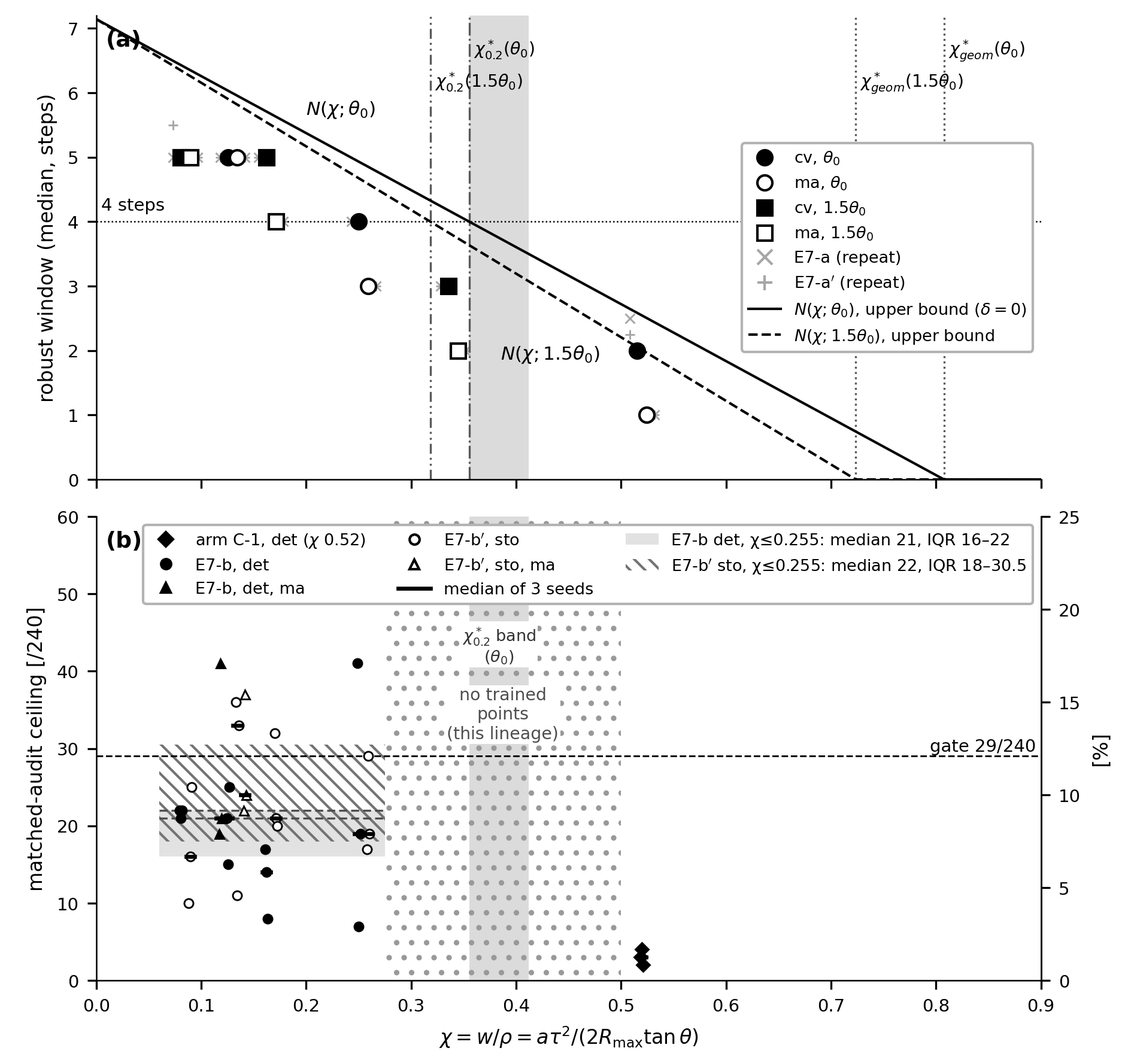
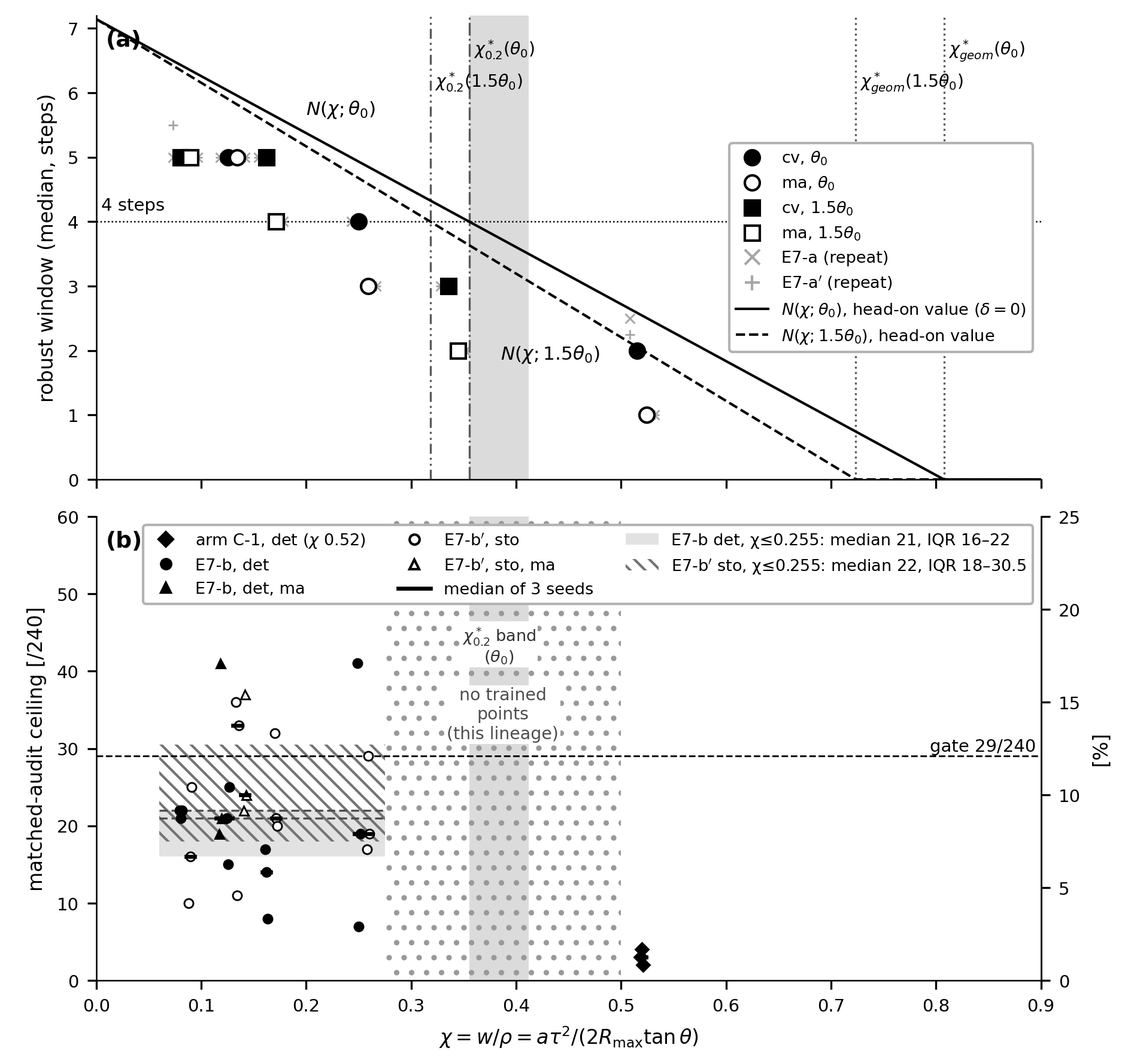
docs(paper1): spine v6 window definition and three-layer claim scope (existence bound strategy-independent / practical window head-on worst-case / measured window implementation-conditional), correction: head-on formula is not an upper bound; ledger W6-W13 acquisition and T&E sources (Korean defense

Changed region(s): [[0.6247, 0.1242, 0.8745, 0.3416]]

diff --git a/scripts/paper1_figs.py b/scripts/paper1_figs.py
@@ -181,8 +181,8 @@ def fig2():
           plt.Line2D([], [], ls="", marker="s", mfc="white", mec="k", label=r"ma, $1.5\theta_0$"),
           plt.Line2D([], [], ls="", marker="x", color="0.65", label="E7-a (repeat)"),
           plt.Line2D([], [], ls="", marker="+", color="0.65", label="E7-a$'$ (repeat)"),
-          plt.Line2D([], [], ls="-", color="k", label=r"$N(\chi;\theta_0)$, upper bound ($\delta=0$)"),
-          plt.Line2D([], [], ls="--", color="k", label=r"$N(\chi;1.5\theta_0)$, upper bound")]
+          plt.Line2D([], [], ls="-", color="k", label=r"$N(\chi;\theta_0)$, head-on value ($\delta=0$)"),
+          plt.Line2D([], [], ls="--", color="k", label=r"$N(\chi;1.5\theta_0)$, head-on value")]
     aa.legend(handles=h_, loc="center right", fontsize=6.5, frameon=True,
               framealpha=1, edgecolor="0.7", ncol=1)
     aa.text(0.01, 0.97, "(a)", transform=aa.transAxes, fontsize=9, fontweight="bold", va="top")

diff --git a/docs/136_paper1_v0_spine.md b/docs/136_paper1_v0_spine.md
@@ -51,6 +51,20 @@ net 요격기는 이미 조달되고 있다 (현황)
 → 조건 미달 사양에서는 학습 방어 다섯 가지가 모두 실패했고, 평가 방법을 잘못 고르면 성능이 3 배 안팎 부풀려진다 (분석 2)
 → 요구 성능 · 시험평가 · 실측 세 제언 (제언).
 
+### 0.6 "창" 의 정의와 세 층 — "구현이 못한 것 아니냐" 에 대한 방어선 (§3-3, §4 에 그대로)
+
+**정의 (상태의 성질)**: 발사 순간의 상태 (공격자 위치 p·속도 v, 발사기 위치 L, net 축) 에서, 공격자가 τ 동안 허용 가속 a 안의 **어떤 기동을 하더라도** τ 뒤 위치가 net 원뿔 (반각 θ, 사거리 R_max) 안에 있으면 그 순간은 **보장 포획 순간**. 공격자의 τ 뒤 도달 가능 집합은 정확히 구 B(p + vτ, w) (점질량·등방 가속에서 정확). **보장 포획 창** = 교전 중 보장 포획 순간이 이어지는 시간 구간.
+
+| 층 | 주장 | 무엇에 대해 성립하나 | "구현 탓" 비판 | 가정 |
+|---|---|---|---|---|
+| 1 존재 경계 | χ > χ*_geom 이면 보장 포획 순간이 **없다** | **모든 발사기 위치 · 모든 조준 방향 · 모든 발사 시점** (원뿔에 넣을 수 있는 가장 큰 구의 반지름 = R·sinθ/(1+sinθ)) | 성립 안 함 (유도·조준·배치와 무관) | net 단독 (경로 제한 기체의 차단 없음), 이상적 회피자 (즉시 반응·전 방향), 원뿔은 발사 순간 고정, τ 뒤 판정 |
+| 2 실용 창 | 창 길이 T = (R_max/V)(1 − χ/χ*_geom) | 축이 조준점 p + vτ 를 향하면 보장 여부는 **발사기–조준점 거리 하나** 로 정해짐 (구간 [w/sinθ, R_max − w]) → 창 = 이 거리 껍질을 지나는 시간. **정면 등속 접근이 가장 짧다** → χ*_0.2 는 **가장 불리한 접근 기하 기준** 의 요구조건 | 정면 기하에서는 성립 안 함. 측면 통과는 창을 늘리지만 시선 각속도 V/b 만큼 축 회전이 필요 | 발사 전 공격자 등속, V = 상대 접근 속도 (발사기가 물러나면 줄어듦), T_min (0.2 s) 은 **요구 파라미터** (획득 측이 정할 값) |
+| 3 측정 창 | 시뮬레이션에서 기록한 창 | 이 구현: cv 조준 (p + vτ, **참 상태 — 센서 잡음·지연 없음**), net 축 회전율 2 rad/s (가정값), 판정 = 표본 2000 + 4구간 극점 기동 (유한 표본, 보수적), 장전·16 m·첫 발사 전만 기록, **발사기 위치는 그 방어 정책이 고른 것** | **성립할 수 있음** → 이 층 숫자는 층 1·2 의 검증용으로만, 성능 한계 주장에 쓰지 않음 | — |
+
+- 학습 방어 결과 (5-2) 는 층 3 위의 사실이다: χ 0.52 < 0.808 이므로 창은 **존재** 하고 (층 1), 정면 기준 약 0.13초로 짧다 (층 2). "시험한 다섯 방식이 이 짧은 창을 포획으로 바꾸지 못했다" 까지만 — "불가능" 아님.
+- **새로 세운 주장 (직접 유도 확인 필요)**: 층 2 의 "보장 여부 = 거리 하나" 와 "정면이 최소" (측면 오프셋 b 일 때 단일 통과 시간 = [√(D_max² − b²) − √(D_min² − b²)]/V, b 에 대해 증가).
+- **정정 (v5 이전 표현)**: "창 길이 식은 상한", "예측은 관측의 상한", 그림 legend "upper bound" → **"정면 접근 기준값"**. 측면 기하에서는 식보다 긴 창이 가능하다. 프로브에서 관측 ≤ 예측이었던 것은 정면 위주 접근 · 보수적 판정 · 축 회전율 · 발사 전 기동과 정합하지만 보장된 성질은 아니다.
+
 ### 0.5 첫 페이지 테스트
 
 1. "net 요격기의 요구 성능은 전개 시간과 대상 위협을 함께 명시해야 한다. 같은 net 이 일반 촬영용 드론에는 넉넉하지만, 이상적으로 회피하는 레이싱급 기체에는 보장 포획 순간이 없다."
@@ -95,7 +109,7 @@ net 요격기는 이미 조달되고 있다 (현황)
 
 | 단락 | 내용 | 근거 | 주의 |
 |---|---|---|---|
-| 1-1 현황 | 전파 교란으로 막기 어려운 위협 (광섬유 유선 FPV) / 요격 드론 비중 증가 / 미 국방부 첫 Replicator 2 구매 = net 포획 요격기 2대 / **국내 맥락** | 장부 W1, W2, W3 + **국내 출처 (조사 중, 장부 W6+)** | 전부 "보도·발표에 따르면". "완전 면역", "전국 70%" 금지 |
+| 1-1 현황 | 전파 교란으로 막기 어려운 위협 (광섬유 유선 FPV) / 요격 드론 비중 증가 / 미 국방부 첫 Replicator 2 구매 = net 포획 요격기 2대 / **국내**: 2022. 12. 북한 무인기 침범·격추 0 → 드론작전사령부 창설 (2023. 9., 2026. 1. 폐지 권고로 검토 중) / 방사청 요격드론 신속시범사업 (2025. 9., 직충돌 방식) | 장부 W1, W2, W3, W12, W13 | 전부 "보도·발표에 따르면". 드작사는 현재 상태까지. 국내 요격드론은 net 이 아님을 명시 |
 | 1-2 문제 | net 은 펼쳐지는 동안 표적이 도망칠 수 있다. 요구 성능을 사거리·반각으로만 적으면 이 회피가 빠진다. AI 기반 방어는 무엇을 상대로 시험하느냐에 따라 성능 숫자가 달라진다. → **"무엇을 요구하고 어떻게 시험할지" 의 정량 기준이 없다** | — | "병목은 기술이 아니라 의사결정" 틀은 여기서 한 문장 |
 | 1-3 질문 | ① 요구 성능에 무엇을 어떤 조합으로 명시해야 하나 ② AI 기반 방어의 성능을 어떻게 재야 숫자를 믿을 수 있나 | — | — |
 | 1-4 기여 | 해석·시뮬레이션 기반의 세 제언. 선행 발표 (KSAS) 의 해석 경계를 계승하고, 그때 남긴 속력 문제를 풀어 요구 성능 기준으로 확장 | [KSAS] | "최초" 금지. **"실측 기반" 금지** — 근거는 해석·시뮬레이션 + 공개 자료 대조 |
@@ -108,7 +122,7 @@ net 요격기는 이미 조달되고 있다 (현황)
 |---|---|---|---|
 | 2-1 net 요격 방식과 실물 자료 | 드론 매단 net (Pliska 외 2024, Rothe 외 2019) / 발사형 net: 실험상 유효 포획 거리 3–8 m (UAV Hunter), 제조사 주장 발사 거리 5–10 m (W4), 개방 시간 0.13 s (Xu 외 2025, KSAS 의 τ 근거), 전개 해석은 유한요소 시뮬레이션 (Han 외 2026 — 실험이 더 느렸다고 저자 보고), 실측 개방률 40–80% (Yu 외 2022). **전개 시간을 독립 실측한 공개 자료는 찾지 못함 → 제언 ③ 의 근거** | 6편 + W4 | Han 의 0.228초를 "실측" 이라 하지 않음 |
 | 2-2 선행 연구의 포획 기준 | 학습 기반 포획 연구는 거리·각도 영역 + 유지 시간 (Huh 외 2026: 3–10 m, ±5°, 0.5초 — 0.5초는 출처 없이 가정). 선행 발표 [KSAS] 는 전개 지연 중 회피를 χ 로 정리하고 원뿔 기하 상계 (31.8 m/s²) 를 구했으며, 규칙 기반 폐루프에서 **같은 가속이라도 속력이 높을수록 포획률이 낮아져** 속력을 반영하는 추가 조건이 필요하다고 남겼다 | Huh 외 2026, [KSAS] | "틀렸다" 톤 금지. KSAS 숫자 (0.878 → 0.636) 는 인용으로만 |
-| 2-3 국내 획득·시험평가 절차 | 소요 제기 → 작전요구성능 → 개발·운용 시험평가 의 흐름, 대드론 관련 국내 사업·조직 (있으면). AI 무기체계 시험평가 지침 (국외: 미 국방부 자율 무기 지침 등) | **조사 중 (장부 W6+)** | 확인된 출처만. 조문 번호는 원문 확인 후 |
+| 2-3 획득·시험평가 제도 | **연결고리 한 문장**: 운용시험평가는 작전운용성능 충족 여부를 확인하는 시험이다 (방위사업법 제21조) → 작전운용성능에 무엇을 적느냐가 시험 대상을 정한다. 작전운용성능 정량화 미흡·개발시험평가 신뢰 문제 지적 (엄동환 2019). 시범사업은 성능입증시험으로 시험평가를 대체할 수 있다 (제21조⑤). 국외: 미 국방부 자율 무기 지침은 "적응하는 적대자" 를 상대로 한 기능 확인을 요구 (W8), AI 체계 운용시험은 적대적 공격 하 평가·독립 시험 데이터 (W9), 대드론 시연은 위협 등급별 평가로 요구성능에 반영 (W11). **국내 국방 AI 시험평가·레드팀 공개 지침은 찾지 못함** | 장부 W6–W11 | **법 조문은 law.go.kr 원문 대조 후** (11/12 개정 시행 확인). 훈령 조문 번호 인용 금지 (개정 가능). DARPA SABER (W10) 는 AI 보안 레드팀 — 쓰면 "유사 방향" |
 
 ---
 
@@ -129,10 +143,10 @@ net 요격기는 이미 조달되고 있다 (현황)
 | 단락 | 내용 | 식·숫자 | 주의 |
 |---|---|---|---|
 | 4-1 창 존재 (선행 결과) | **[KSAS] 인용, 반 단락**: χ ≤ χ*_geom = cosθ/(1+sinθ) 일 때만 보장 포획 순간이 존재. 보장 포획 조준 거리 구간 [w/sinθ, R_max − w] | 0.808 / 4.37–7.30 m / τ 0.30 s 에서 a 31.8 m/s² | 명제 번호 붙이지 않음. "불가능" 은 χ > 경계 에서만, 모델 안에서 |
-| 4-2 실용 창 (새 결과) | 정면 직선 접근 시 창 길이 T = (R_max/V)·(1 − χ/χ*_geom) — **χ 에 대한 직선**. 0.2초 이상 필요 → χ ≤ χ*_0.2 = χ*_geom·(1 − 0.2·V/R_max). **두 조건 동시 필요**: 0.2·V < R_max, 그리고 χ ≤ χ*_0.2. KSAS 의 속력 의존 관찰과 같은 방향 (속력이 크면 창이 짧다). 등록 시점·경위 공개 (학습 실험 전, 단 시뮬레이션 지도를 본 뒤) | T 상한 0.36초, χ*_0.2 = 0.355 (0.175초: 0.412). τ 0.30 s·V 23 m/s 에서 0.2초 창은 **a ≤ 14.0 m/s²** 위협에만. 속도 한계 41 m/s | "몰래 맞힌 예측" 금지. KSAS 폐루프와의 정량 대조는 하지 않음 (모델이 다름) |
+| 4-2 실용 창 (새 결과) | 정면 직선 접근 시 창 길이 T = (R_max/V)·(1 − χ/χ*_geom) — **χ 에 대한 직선**. 0.2초 이상 필요 → χ ≤ χ*_0.2 = χ*_geom·(1 − 0.2·V/R_max). **두 조건 동시 필요**: 0.2·V < R_max, 그리고 χ ≤ χ*_0.2. KSAS 의 속력 의존 관찰과 같은 방향 (속력이 크면 창이 짧다). 등록 시점·경위 공개 (학습 실험 전, 단 시뮬레이션 지도를 본 뒤) | 정면 기준 T (χ → 0 극한 0.36초), χ*_0.2 = 0.355 (0.175초: 0.412). τ 0.30 s·V 23 m/s 에서 0.2초 창은 **a ≤ 14.0 m/s²** 위협에만. 속도 한계 41 m/s | "몰래 맞힌 예측" 금지. KSAS 폐루프와의 정량 대조는 하지 않음 (모델이 다름) |
 | 4-3 지연과 오차 (해석만) | ① 회피자 반응 지연 τ_r → χ × [(τ − τ_r)/τ]² (0.15초면 1/4) ② 방어 추적 지연 L → χ × [(τ + L)/τ]² ③ 조준 오차 δ → 창 존재 경계 χ*_geom(δ) = 1 / [tanθ·(1 + 1/sin(θ − δ))]. δ ≥ θ 면 창 없음. **좁은 콘 net 일수록 조준 오차에 민감** | ③ δ 0.05 rad → 0.808 에서 0.645 (정확한 값). ② 는 **새로 세운 식 — 직접 유도해 확인한 뒤에만** | 실측 없음 → 제언 ③ |
 | 4-4 위협 등급별 판정 | 같은 net (τ 0.30 s) 에서 χ = a × 0.0254: Mavic급 (a 6.9) 0.175 / Phantom급 (8.8) 0.224 / 표준 쿼드 (17.4) 0.442 / 레이싱 쿼드 (≈ 39) 0.99 → 창 없음 (이상적 회피자 가정). 필요한 전개 시간 ∝ 1/√(위협 가속). **정책 읽기**: 요구 성능은 "대상 위협 등급" 을 명시해야 의미가 있다 | 위협 가속은 사양 틸트각·추력비에서 도출. **전투용 FPV (탄두 탑재) 가속은 공개 자료 없음** | 그림 2 는 반각 12.15°·사거리 8.22 m 전용 — 캡션에. **실물 net 의 χ 는 올리지 않음** |
-| 4-5 시뮬레이션 대조 | 쏘지 않는 교전 기록 위에서 net 사양만 바꿔 판정을 다시 계산 (공격자 = 규칙 방어용으로 학습된 비공진화 공격자, 낙관 편향). χ 가 작을수록 창이 커짐, 등록 경계는 등록 전에 본 자료의 열림/닫힘과 12 개 중 11 개 일치, 예측은 관측의 상한. 전개 시간·위협 가속·반각을 바꿔도 같은 χ 면 창이 거의 같음 (한 문장) | 동점 보정 순위상관 0.93 (반복 측정 0.94) / 사양 변형 12개 | 그림 3 = 머니 커브 **(a) 패널만**. collapse 는 한 문장, 그림 없음 (AIAA) |
+| 4-5 시뮬레이션 대조 | 쏘지 않는 교전 기록 위에서 net 사양만 바꿔 판정을 다시 계산 (공격자 = 규칙 방어용으로 학습된 비공진화 공격자, 낙관 편향). χ 가 작을수록 창이 커짐, 등록 경계는 등록 전에 본 자료의 열림/닫힘과 12 개 중 11 개 일치, 관측은 정면 기준 예측 이하 (보장된 성질 아님, §0.6). **측정 창의 구현 조건 (층 3) 을 이 단락에 명시**. 전개 시간·위협 가속·반각을 바꿔도 같은 χ 면 창이 거의 같음 (한 문장) | 동점 보정 순위상관 0.93 (반복 측정 0.94) / 사양 변형 12개 | 그림 3 = 머니 커브 **(a) 패널만**. collapse 는 한 문장, 그림 없음 (AIAA) |
 
 - **AI 사용 명시**: 4-1·4-2 의 유도는 AI 보조 세션이 먼저 만들었다 → 직접 다시 유도해 확인한 뒤 쓴다.
 
@@ -164,7 +178,8 @@ net 요격기는 이미 조달되고 있다 (현황)
 | 단락 | 내용 | 주의 |
 |---|---|---|
 | 6-1 제언 ① | 표 3 첫 줄 + 위협 등급 예 (4-4). "가속 14 m/s² 이하 위협에만 실용 창" 같은 기준점 하나 | 특정 제품의 χ·적합 판정 금지 |
-| 6-2 제언 ② | 레드팀 원칙. 비용 측면 한 문장 (레드팀 학습이 방어 학습보다 짧음 — 1천만 vs 1.1억 step) | 국내 시험평가 절차의 어느 단계에 해당하는지는 §2-3 조사 결과로 |
+| 6-2 제언 ② | 레드팀 원칙 = 미 국방부 지침의 "적응하는 적대자" 요구 (W8) 를 학습 기반 방어에 구체화한 것. 운용시험평가 단계에 적용. 비용 측면 한 문장 (레드팀 학습이 방어 학습보다 짧음 — 1천만 vs 1.1억 step) | 국내 공개 지침 공백은 "찾지 못했다" 로 |
+| 6-2′ 제언 ③ 연결 | 시범사업 경로 (성능입증시험이 시험평가를 대체 가능, W7·W13) 에서도 전개 시간·조준 정확도는 독립 실측 항목으로 | 국내 요격드론 사업은 net 방식이 아님 — 일반 원칙으로만 |
 | 6-3 제언 ③ | 실측 공백. 빠른 위협 (4-2 의 속도 한계): 사거리 8.22 m 면 약 41 m/s, 25 m 면 약 125 m/s 이상에서 어떤 χ 로도 0.2초 창 없음 → 사거리가 짧은 net 의 운용 한계. 보도 한 줄: 제트형 Shahed 격추율 57% vs 전체 70% (W5) — "같은 방향의 관찰", 인과 금지 | — |
 
 ---
@@ -214,7 +229,7 @@ net 요격기는 이미 조달되고 있다 (현황)
 
 - **선행 발표 (필수)**: 홍현준, 최한림, "그물 발사를 이용한 소형 무인기 요격의 해석적 성립 한계와 폐루프 성능," 한국항공우주학회 2026 추계학술대회 논문집, 2026 (쪽 번호 확인 필요).
 - 학술 (Crossref 확인): Huh 외 2026 · Pliska 외 2024 · Rothe 외 2019 · Han 외 2026 · Yu 외 2022 · Zhang 외 (UAV Hunter) 2024 · Xu 외 2025.
-- 웹 문헌: 장부 docs/131 §3b 의 W1–W5 + **W6+ (국내 획득·시험평가, AI 시험평가 지침 — 조사 중)**. Reuters·FT 수치는 원문 미확인이라 쓰지 않음.
+- 웹 문헌·제도: 장부 docs/131 §3b 의 W1–W13 (W6 엄동환 2019 · W7 방위사업법 · W8 DoDD 3000.09 · W9 DoDM 5000.101 · W11 JCO · W12–W13 국내 맥락). main 미대조 항목은 제출 전 원문 대조. Reuters·FT 수치는 원문 미확인이라 쓰지 않음.
 
 ---
 

diff --git a/docs/131_paper1_v0_evidence_ledger.md b/docs/131_paper1_v0_evidence_ledger.md
@@ -181,6 +181,15 @@ E3 T0 anchor = 노트 10-11b (완료) · E4 ρ-collapse = docs/133 (봉인 d41bf
 | W2 ✓ | 우크라이나 상공 격추 표적 3분의 1 이 요격 드론 (공군 발표) / 2026년 2월 Shahed 격추의 70% 이상이 드론 (총사령관 발표) | [ ] K. Livingstone, Novel interceptor drones bend air-defense economics in Ukraine's favor, Defense News, 2026. 3. 5., https://www.defensenews.com/global/europe/2026/03/05/novel-interceptor-drones-bend-air-defense-economics-in-ukraines-favor/ (검색일 : 2026. 10. 11.) | 우크라이나 군 발표, 한 달 수치. 70% 의 지역 범위 불명확 → "전국 70%" 금지. 3분의 1 은 전체 공중표적 기준 |
 | W3 ✓ | 미 국방부 합동기관 TF 401 의 Replicator 2 첫 구매 = net 포획 요격기 DroneHunter F700 2대 (2026년 1월) | [ ] A. Scher, Joint Interagency Task Force announces first Replicator 2 purchase to counter homeland drone threats, U.S. Army, 2026. 1. 14., https://www.army.mil/article/289979/joint_interagency_task_force_announces_first_replicator_2_purchase_to_counter_homeland_drone_threats (검색일 : 2026. 10. 11.) + 제조사 확인용 [ ] Z. B. Fletcher, Pentagon task force to deploy AI-powered UAS systems to capture drones, Defense News, 2026. 1. 13., https://www.defensenews.com/unmanned/2026/01/13/pentagon-task-force-to-deploy-ai-powered-uas-systems-to-capture-drones/ (검색일 : 2026. 10. 11.) | army.mil 원문에는 Fortem 이름 없음 → Defense News 와 함께. 규모 2대, 금액 비공개. 육군 18M 달러 계약은 제조사 발표만 (쓰면 "제조사 발표에 따르면") |
 | W4 | 우크라이나 AirNet 드론 탑재 net 발사기: net 발사 거리 5–10 m, 780 g | [ ] Т. Сафронов, Українська AirNet розробила сіткомет з радаром для перехоплення дронів, Militarnyi, 2025. 12. 4., https://militarnyi.com/uk/news/ukrayinska-airnet-rozrobyla-sitkomet-z-radarom-dlya-perehoplennya-droniv/ (검색일 : 2026. 10. 11.) | 업체 대표의 전시회 진술 (제조사 주장). 0.1–6 m 는 탐지·발사 트리거 구간, 5–10 m 가 net 발사 거리 |
+| W6 ✓ | 엄동환 2019: 작전운용성능 정량화 노력 미흡 / 개발시험평가는 개발주관기관 주관, 소요군·방사청은 "참관하는 수준" → 개발시험평가 결과 신뢰 낮음 / 개발·운용시험평가 정의 (당시 국방전력발전업무훈령 제81조) | [ ] 엄동환, 무기체계 작전운용성능 설정 및 시험평가방법 개선에 대한 연구, 시스템엔지니어링 학술지, 제15권 제2호, 2019, pp. 9–16, https://doi.org/10.14248/JKOSSE.2019.15.2.009 | main 이 PDF 원문에서 문구 확인 (2026-10-11). 훈령 조문 번호는 2019년 기준 — 개정 가능, 조문 번호 인용 금지. 제언 ①·③ |
+| W7 (✓ 미러) | 방위사업법: 제15조① 합참의장이 합동참모회의 심의로 소요 결정 / 제21조③ 연구개발 시험평가 = 개발시험평가 (요구성능·개발목표 충족 검증) + 운용시험평가 (작전운용성능 충족·군 운용 적합 확인), 신속소요는 통합 가능 / 제21조⑤ 시범사업을 거친 무기체계 구매는 성능입증시험으로 시험평가 대체 가능 | [ ] 방위사업법 (법률 제21857호, 2026. 8. 4. 타법개정, 2026. 10. 2. 시행), 국가법령정보센터, https://www.law.go.kr (검색일 : 2026. 10. 11.) | main 은 미러 (casenote.kr) 에서 15①·21⑤ 문구, 21③ 구조 확인. **제출 전 law.go.kr 원문 대조 필수**. 2026. 11. 12. 시행 일부개정 (제21871호) 있음 — 조문 변동 확인. 제언 ①·③ 의 제도 연결고리 (운용시험평가 = 작전운용성능 충족 확인 → ROC 에 무엇을 적느냐가 시험 대상) |
+| W8 | 미 국방부 자율 무기 지침: "against adaptive adversaries taking realistic and practicable countermeasures" (§1.2.a.(1)(a)), AI 포함 체계는 엄격한 개발·운용 시험평가 (§3.a.(2)), 변경 후 재시험 (§3.c) | [ ] U.S. Department of Defense, DoD Directive 3000.09, Autonomy in Weapon Systems, 2023. 1. 25., https://www.esd.whs.mil/Portals/54/Documents/DD/issuances/dodd/300009p.PDF (검색일 : 2026. 10. 11.) | 서브에이전트가 archive 사본으로 확인, main 미대조. 제언 ② 의 가장 직접적인 국외 근거 — "적응하는 적대자" 는 학습 레드팀과 같은 방향 (같은 방법 지정은 아님) |
+| W9 | 미 DOT&E AI·자율 체계 운용시험 지침: 적대적 공격 하 불안정성 평가 (§3.2), 독립 운용시험용 시험 데이터 분리 보관 (§3.8.b), 위협 환경 변화에 따른 재평가 (§3.7) | [ ] DOT&E, DoD Manual 5000.101, Operational Test and Evaluation and Live Fire Test and Evaluation of Artificial Intelligence-Enabled and Autonomous Systems, 2024. 12. 9., https://www.esd.whs.mil/Portals/54/Documents/DD/issuances/dodm/5000101p.PDF (검색일 : 2026. 10. 11.) | 서브에이전트 확인, main 미대조. **"red team" 단어 없음** → "적대적 공격 하 평가" 로만 |
+| W10 | DARPA SABER: 운용 AI 레드팀 체계 개발 공고, "no well-developed capability" | [ ] DARPA I2O, SABER (HR001125S0009), 2025. 3. 12. | 제3자 사본, main 미대조. **AI 보안 공격 (사이버·전자전·적대적 입력) 중심** — 학습 공격자 기동과 같은 개념 아님. 쓰면 "유사 방향" 한 줄 |
+| W11 | 미 JCO 시연: Group 1 UAS 상대 효과 평가, 시나리오 최대 16개, "inform future requirements" / 2023 시연은 무게 구간별 표적 | [ ] D. L. Suits, Joint counter UAS office plans future demos after strong first evaluation, U.S. Army, 2021. 4. 20., https://www.army.mil/article/245375 · [ ] C. Hurd, Army, joint force work to counter evolving small unmanned aircraft threat, U.S. Army, 2023. 7. 17., https://www.army.mil/article/268403 (검색일 : 2026. 10. 11.) | 서브에이전트 확인, main 미대조. 위협 등급별 요구성능 관행 (제언 ①). net 요격기 등급별 결과는 공개 없음 |
+| W12 | 국내 맥락: 2022. 12. 26. 북한 무인기 침범 (비행금지구역 북단 통과, 2023. 1. 5. 군 인정), 격추 0 → 2023. 9. 1. 드론작전사령부 창설 → **2026. 1. 자문위 폐지 권고, 국방부 검토 중** | [ ] 뉴시스 2023. 1. 5. https://www.newsis.com/view/NISX20230105_0002149116 · [ ] 매일경제 2023. 9. 1. https://v.daum.net/v/20230901184200497 · [ ] 이투데이 2026. 1. 26. https://www.etoday.co.kr/news/view/2549338 | 서브에이전트 확인, main 미대조. 드작사 현재 상태 반영 필수 ("창설" 만 쓰지 않기) |
+| W13 | 국내 요격드론 획득: 방사청 '대드론 하드킬 근접방호체계' 신속시범사업 (2025. 9.), 직충돌 방식, 2년 170억 원, 2028년부터 군 배치 후 성능입증시험 / 레이저대공무기 Block-I 양산 착수 (2024. 7.) | [ ] 보안뉴스 2025. 9. 9. http://www.boannews.com/news/articleView.html?idxno=139146 · [ ] 헤럴드경제 2026. 5. 21. https://www.heraldk.com/article/2026052123012765970 · [ ] 뉴데일리 2024. 7. 11. https://www.newdaily.co.kr/site/data/html/2024/07/11/2024071100126.html | 서브에이전트 확인, main 미대조. **net 방식 아님** (직충돌). 제언 ③ 연결: 시범사업 경로는 성능입증시험이 시험평가를 대체할 수 있음 (W7 제21조⑤) → 핵심 성능 (전개·반응 시간) 의 독립 실측이 빠질 수 있음 |
+| (공백) | 국내 국방 AI 시험평가·레드팀 공식 지침 공개 문서 없음 (과기정통부·TTA 일반 AI 신뢰성 표준만) / 방위사업관리규정·국방전력발전업무훈령 현행 원문 미열람 / net 요격기 위협 등급별 공개 평가 결과 없음 | — | 공백 자체가 §1-2·§6 근거 ("정량 기준 부재") — 단 "없다" 대신 "공개 자료를 찾지 못했다" |
 | W5 ✓ | 2026년 9월 말 우크라이나 대통령: 드론 전체 격추율 70%, 제트형 Shahed 는 57% | [ ] A. Mazurenko, Zelenskyy: Drone interception rate is 70% overall, 57% for jet-powered drones, Ukrainska Pravda, 2026. 9. 28., https://www.pravda.com.ua/eng/news/2026/09/28/8055500/ (검색일 : 2026. 10. 11.) | 정부 공식 주장, 전자전 무력화 포함. "기존형 90% 초과" 는 Militarnyi 보도 (main 미대조) |
 
 - 쓰지 않을 것: Reuters "요격 드론이 Shahed 격추의 40%", FT "Geran-5 60% vs 95%" (원문 접근 불가 — 확인 못 함).
